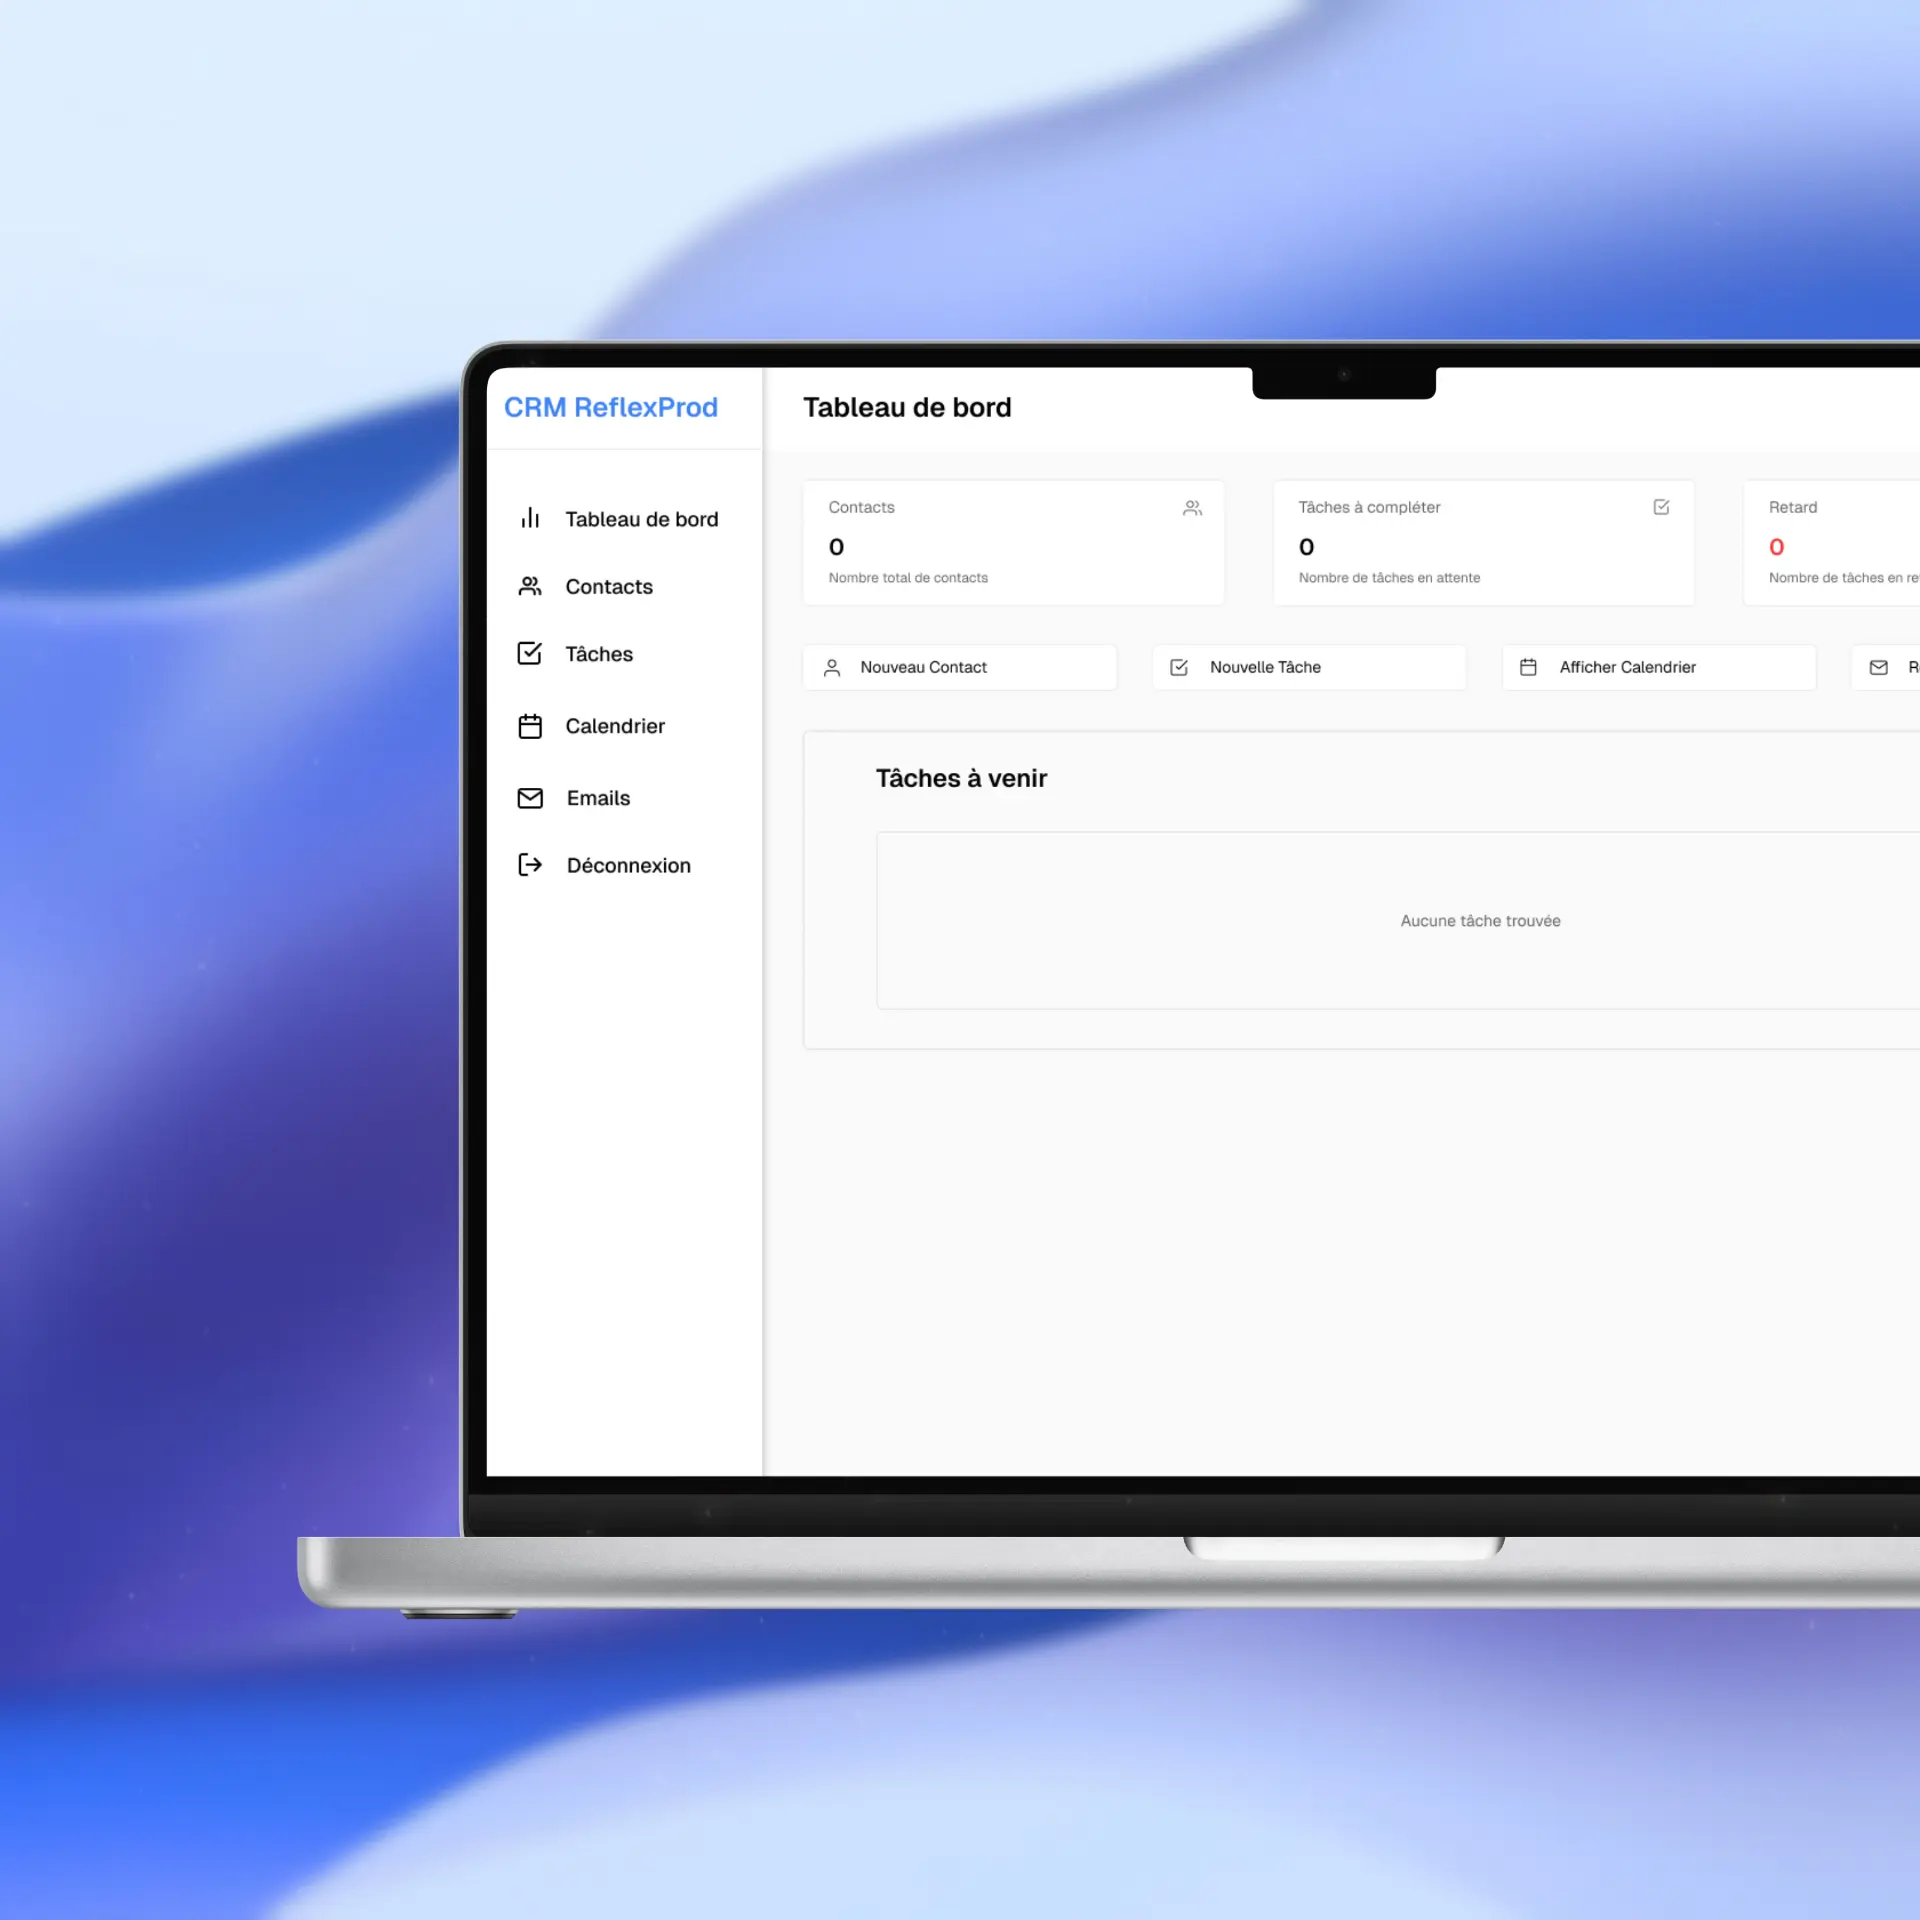
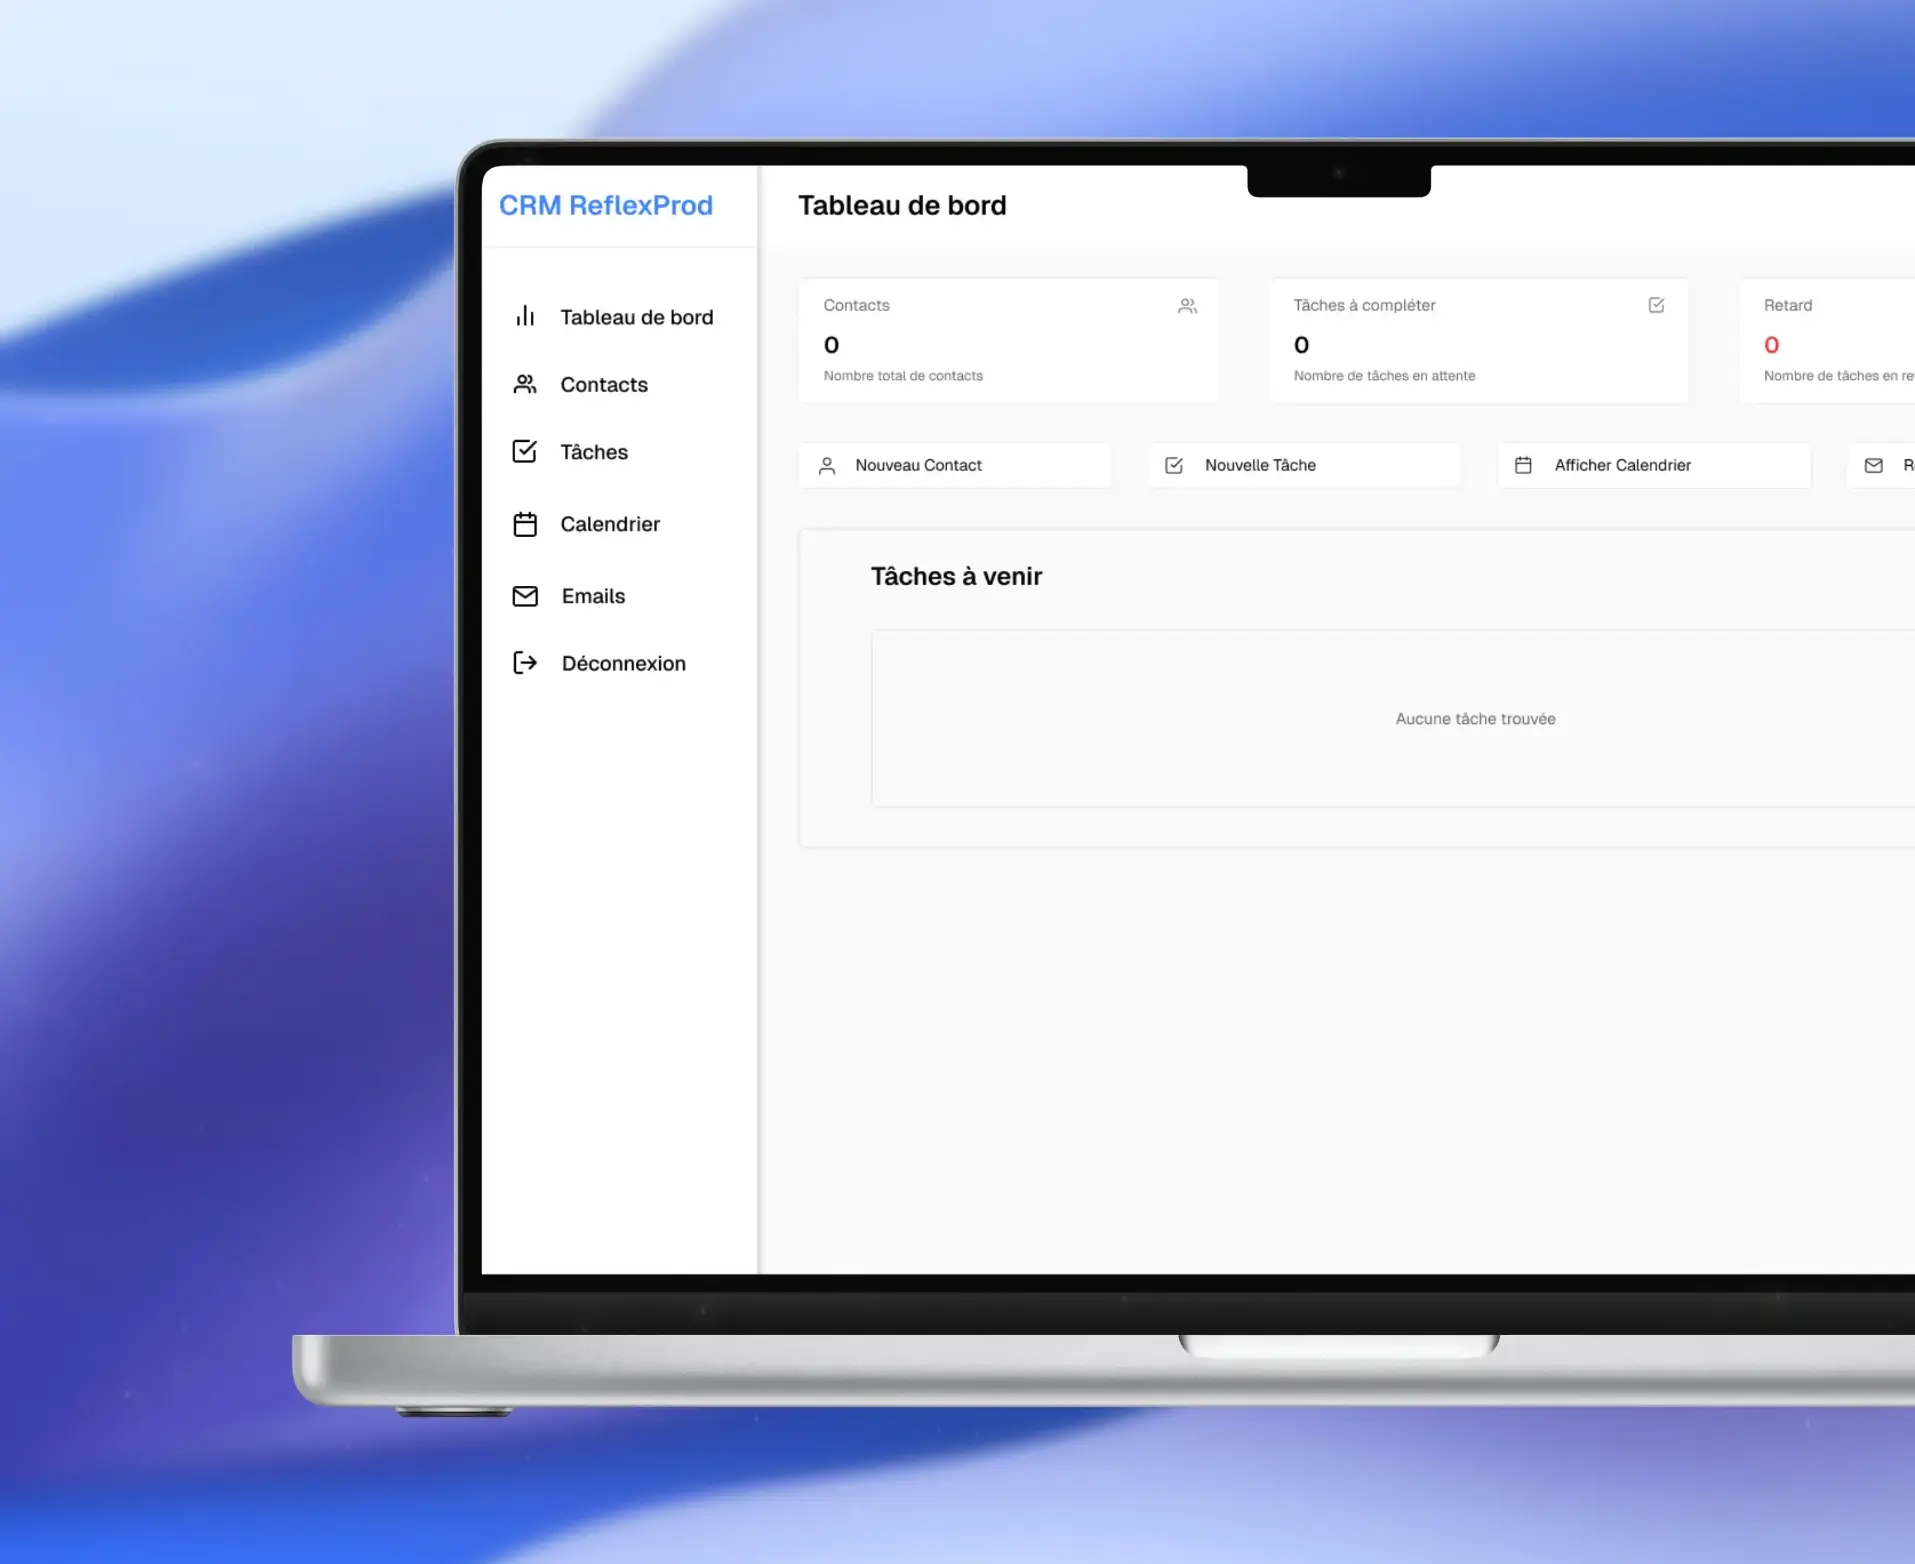
enhance project cases images

diff --git a/src/views/FictionalProductProjectView.vue b/src/views/FictionalProductProjectView.vue
@@ -16,7 +16,7 @@ onMounted(() => {
 
 <template>
     <ProjectCase title="Fictional Product"
-        :images="['/images/product-project_thumb.webp', '/images/product-project_thumb2.png']"
+        :images="['/images/product-project_thumb.webp', '/images/product-project_thumb2.webp']"
         description="A visual showcase page focused on storytelling, product framing, and smooth interactions."
         demoLink="https://nin0dev.github.io/product-page/" :tools="['HTML', 'CSS', 'JS']" />
     <Footer />

diff --git a/src/views/ReflexProdProjectView.vue b/src/views/ReflexProdProjectView.vue
@@ -17,6 +17,6 @@ onMounted(() => {
 <template>
     <ProjectCase title="ReflexProd CRM – Project"
         description="A CRM-focused product build with a clean dashboard system and scalable component architecture."
-        :images="['/images/crm-project_thumb.webp', '/images/crm-project_thumb2.png', '/images/crm-project_thumb3.png']" />
+        :images="['/images/crm-project_thumb.webp', '/images/crm-project_thumb2.webp', '/images/crm-project_thumb3.webp']" />
     <Footer />
 </template>

diff --git a/src/components/ProjectCase.vue b/src/components/ProjectCase.vue
@@ -132,7 +132,10 @@ onBeforeUnmount(() => {
 .project-page__hero img {
     margin-top: 18px;
     width: 100%;
+    height: 100vh;
     display: block;
+    object-fit: fit;
+    object-position: top;
 }
 
 .project-demo-button {
@@ -178,6 +181,11 @@ onBeforeUnmount(() => {
 
     .swiper-container {
         display: block !important;
+    }
+
+    .project-page__hero img {
+        display: block;
+        object-fit: none;
     }
 }
 
